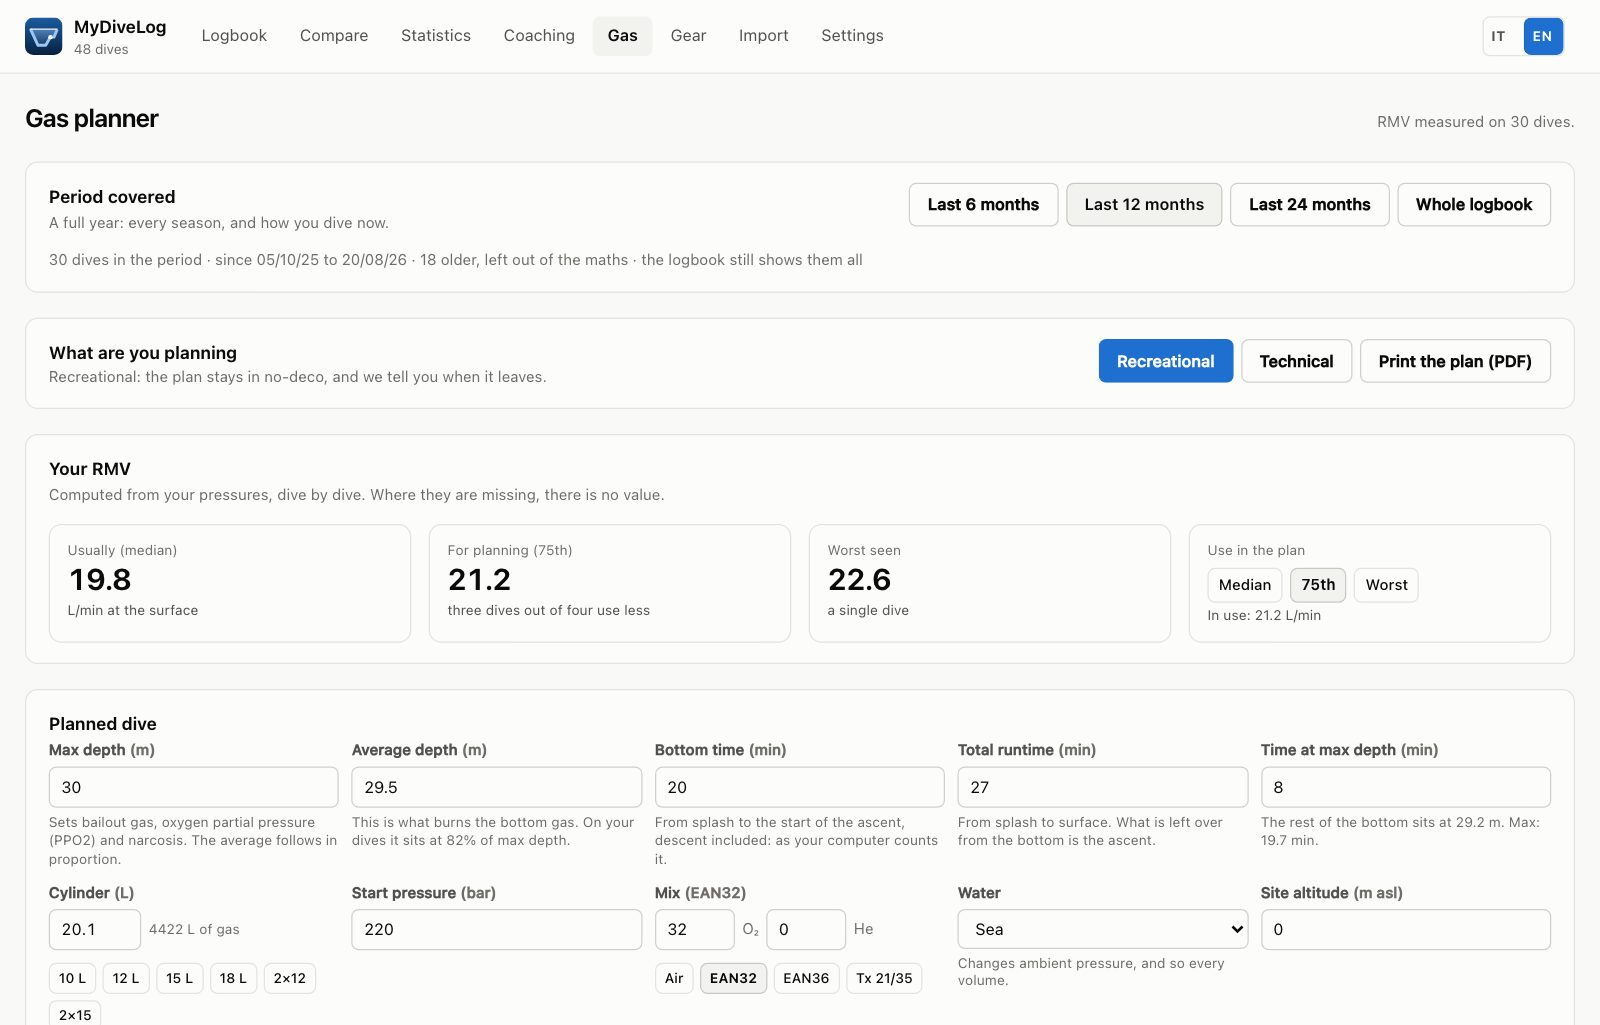
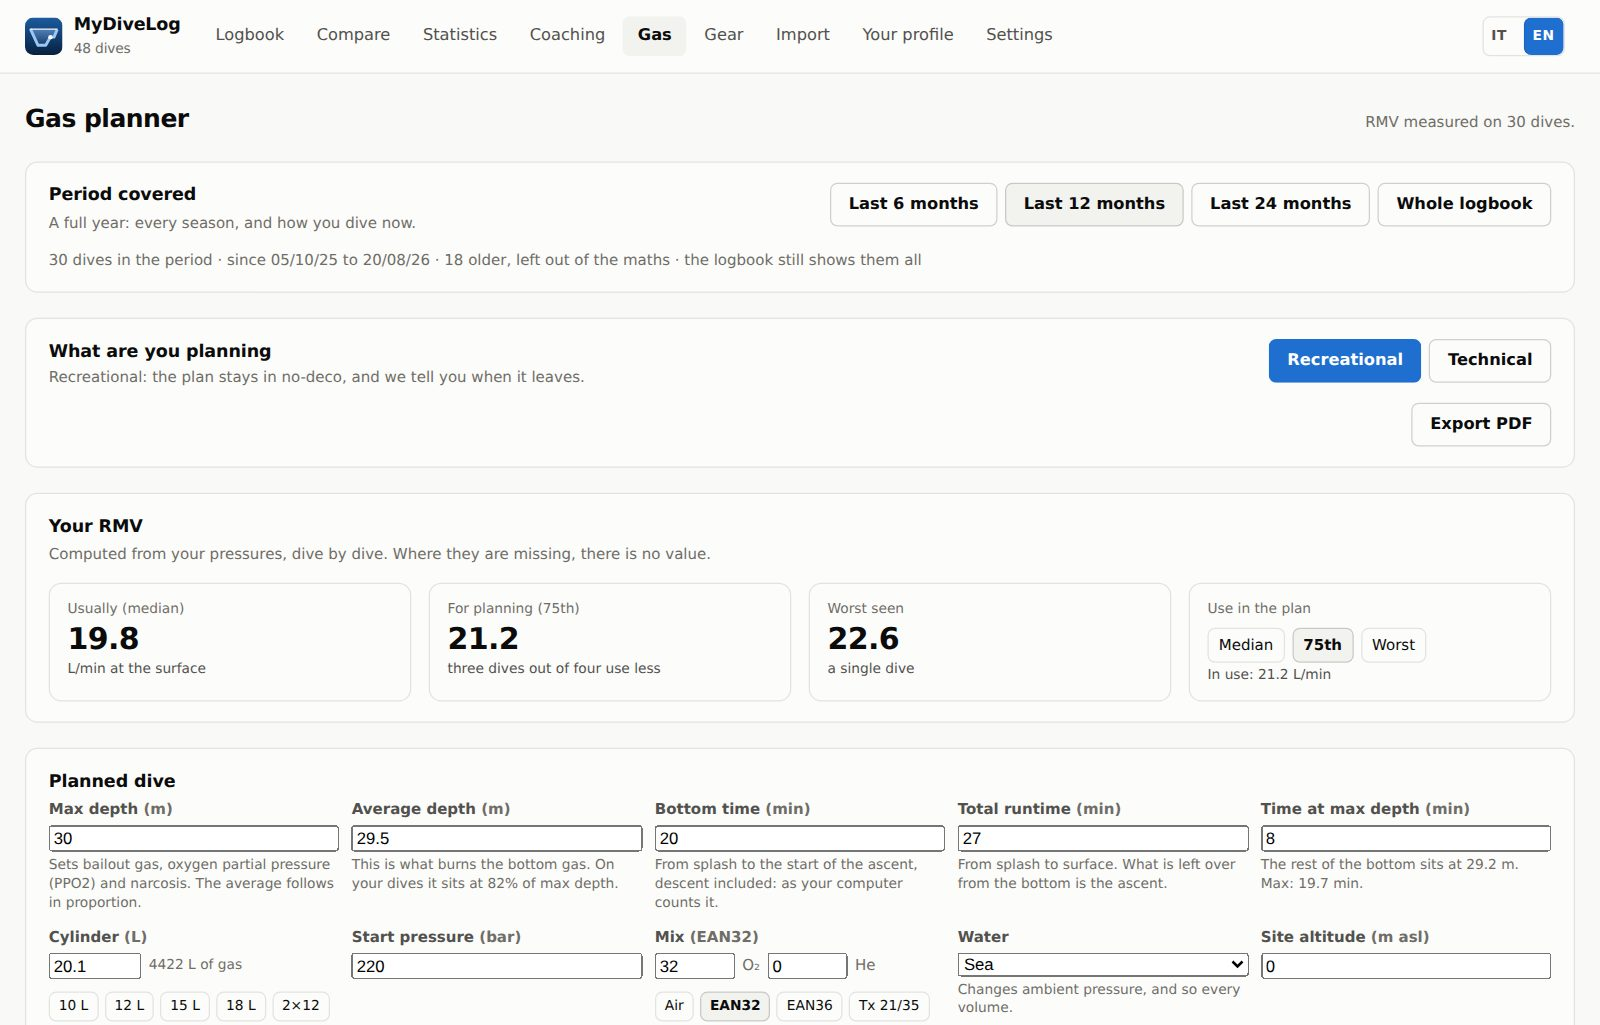
1.8.23 — versione nei quattro file, schermate dei negozi e del sito rigenerate
Il numero sale a 1.8.23 in `package.json`, `tauri.conf.json`, `Cargo.toml`,
`Cargo.lock` e `package-lock.json`. Le venti prove di cask e PKGBUILD restano
verdi: tollerano che i generati siano indietro, mai avanti.

LE IMMAGINI DEI NEGOZI E DEL SITO MOSTRAVANO UN'APPLICAZIONE CHE NON ESISTE PIÙ.
Diciotto schermate per Google Play (6 telefono, 6 tablet 7", 6 tablet 10"), più
icona e feature graphic; quattordici immagini della vetrina del sito. Tutte
avevano l'hamburger in alto e nessuna aveva la barra in basso. `play:controlla`:
tutto dentro i vincoli.

E RIGENERANDOLE È SALTATO FUORI UN DIFETTO che nessuna misura di stanotte aveva
visto: nel menu dell'obiettivo dei Suggerimenti si leggeva «Miglioramento
general». La freccia di un `<select>` sta DENTRO il suo padding destro, e nove
pixel — gli stessi di un campo di testo, dove la freccia non c'è — se la
mangiavano. Vale per ogni menu dell'applicazione, non solo per quello.

Si è visto guardando le immagini per Play, cioè le uniche schermate che finiscono
davanti a qualcuno che l'applicazione non l'ha mai aperta. Né `larghezza:verifica`
né `screenshot` potevano prenderlo: non è uno sforo — il testo sta dentro il suo
riquadro — è testo coperto da un disegno del sistema. *Un controllo che misura i
rettangoli non vede quello che il sistema disegna sopra.*

Note della release pronte in `docs/NOTE-1.8.23.md`.

Catena verde: 2 692 prove in 157 file, nessuno sforo su dieci larghezze.
[…]

diff --git a/src/ui/styles.css b/src/ui/styles.css
@@ -1802,10 +1802,30 @@ input[type='text'],
 input[type='number'],
 input[type='search'],
 input[type='password'],
+/*
+ * ► LA FRECCIA DI UN `<select>` STA DENTRO IL SUO PADDING. ◄
+ *
+ * Con nove pixel a destra — gli stessi di un campo di testo, dove la freccia non
+ * c'è — l'ultima lettera dell'opzione finisce sotto il triangolo del sistema:
+ * su un telefono, nel menu dell'obiettivo dei Suggerimenti, si leggeva
+ * «Miglioramento general». È saltato fuori guardando le schermate rigenerate per
+ * Google Play, cioè le uniche immagini dell'applicazione che finiscono davanti a
+ * qualcuno che non l'ha mai vista.
+ *
+ * Ventisei pixel sono la larghezza della freccia su WebKit e su Chromium più il
+ * respiro che aveva prima. Vale solo per `select`: su un campo di testo
+ * lascerebbe un vuoto a destra senza ragione.
+ */
+select {
+  padding-right: 26px;
+}
+
 textarea {
   font: inherit;
   font-size: 13px;
   padding: 6px 9px;
+  /* Vedi la regola qui sotto per il solo `select`: la freccia del sistema sta
+     DENTRO il padding destro, e su un menu stretto si mangia l'ultima lettera. */
   border-radius: var(--radius-sm);
   border: 1px solid var(--border-strong);
   background: var(--surface-1);

diff --git a/docs/NOTE-1.8.23.md b/docs/NOTE-1.8.23.md
@@ -1,0 +1,60 @@
+## MyDiveLog 1.8.23 — l'interfaccia del telefono, rifatta
+
+Questa versione non aggiunge funzioni: **rifà il modo in cui l'applicazione si
+usa su un telefono.** È nata da una frase — «la UX del menu, e in generale
+dell'app» — e da una misura: a 402 px, la larghezza vera di un iPhone 16 Pro,
+alcune schede erano lunghe sei schermate e ogni destinazione era a due tocchi.
+
+### Una barra in basso, invece di un menu
+
+Quattro destinazioni sempre sotto il pollice — **Logbook, Statistiche, Gas** —
+più **Importa** al centro, in un cerchio che sporge: è l'unica voce che non porta
+a guardare qualcosa ma a fare la cosa senza la quale tutto il resto è vuoto.
+«Altro» apre un foglio con il resto, diviso in tre gruppi — *Le tue immersioni*,
+*Tu*, *L'applicazione* — e ogni voce dice cosa c'è dentro senza doverci entrare.
+
+Costa 55 px di contenuto su ogni pagina, ed è scritto qui perché è vero: in
+cambio, i tocchi per aprire una pagina qualsiasi scendono da due a poco più di
+uno.
+
+### Le pagine lunghe si aprono a capitoli
+
+Ogni sezione parte chiusa sul telefono e mostra accanto al titolo **il numero che
+produce**: «Esposizione all'ossigeno — CNS 52% · OTU 72», «Siti più frequentati —
+Moregallo · 8 immersioni». Un riquadro chiuso che non dice il suo numero è un
+titolo con una freccia, e non fa risparmiare niente.
+
+| | prima | adesso |
+|---|---|---|
+| Impostazioni | 3.3 schermate | **1.8** |
+| Importa | 2.9 | **1.3** |
+| Confronta | 2.5 | **1.3** |
+| Statistiche | 3.9 | **3.3** |
+| Suggerimenti | 5.7 | **4.9** |
+
+### Un indice sul bordo destro
+
+Nelle pagine con molti capitoli — Gas, Statistiche, la scheda di un'immersione —
+una colonna di punti sul bordo destro dice in quale sezione ci si trova e ci
+porta con un tocco, **aprendola**.
+
+### La testa del logbook non scorre più
+
+Il titolo e «Cerca e filtra» restano fermi: con quarantotto immersioni si sa
+sempre quante ne sta mostrando il filtro, e per cambiarlo non si risale in cima.
+
+### «Il tuo profilo», e la lingua dove ci si aspetta
+
+Nome e brevetti hanno una pagina loro, separata dalle Impostazioni: sono dati di
+chi si immerge, non comandi del programma. E la lingua è una riga come le altre,
+in cima a Impostazioni.
+
+### E sotto il cofano
+
+Ventitré difetti chiusi da due revisioni avversariali su tutto ciò che è stato
+riscritto, fra cui cinque stringhe che con l'app in inglese restavano in italiano
+— compresa quella sul primo schermo di chi installa l'app — e due carte che si
+aprivano insieme perché condividevano una chiave.
+
+**2 692 prove in 157 file**, nessuno sforo laterale su dieci larghezze da 320 a
+1680 px.
